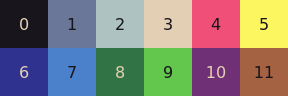
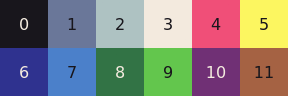
update colors

diff --git a/public/tools/pixel-art-editor.html b/public/tools/pixel-art-editor.html
@@ -223,7 +223,7 @@
         "#18161c",
         "#6a7799",
         "#aec2c2",
-        "#e3cfb4",
+        "#f3eade",
         "#f04f78",
         "#fcf660",
         "#2f328f",

diff --git a/public/sw.js b/public/sw.js
@@ -1,5 +1,5 @@
 const cacheName = "luizbills.litecanvas-editor-v1";
-const version = "1.68.0";
+const version = "1.69.0";
 
 const precacheResources = [
   "/",
